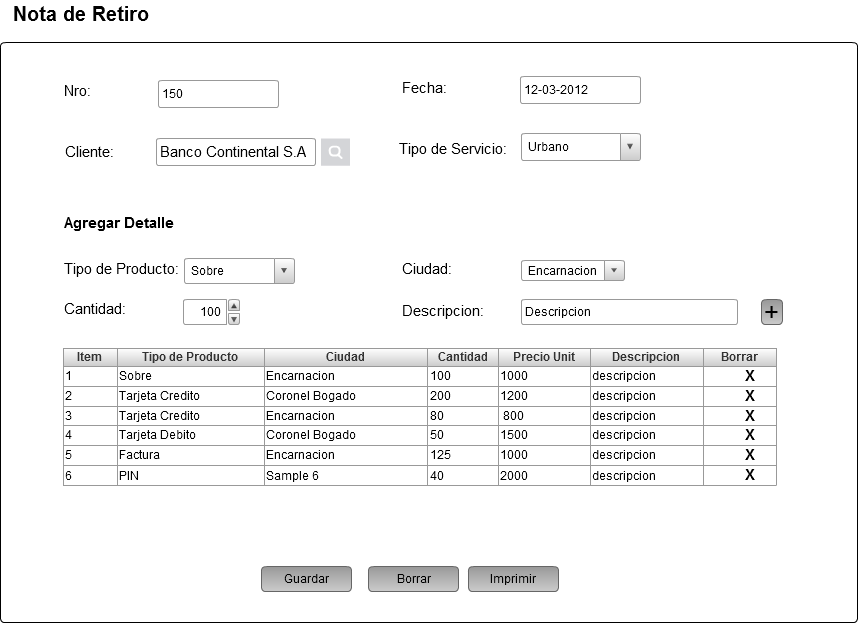
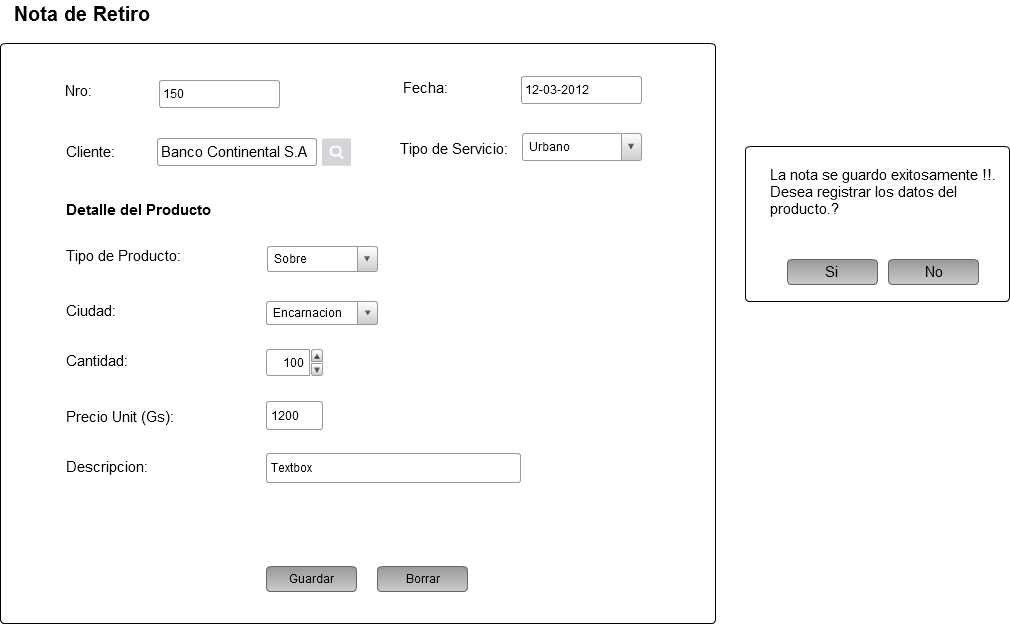
Se modifica la maqueta de nota de retiro Se modifica el redirec_to de customer_companies Se modifica el menu para que aparezca clientes de tipo empresa y luego clientes de tipo persona

diff --git a/project/app/controllers/customer_companies_controller.rb b/project/app/controllers/customer_companies_controller.rb
@@ -50,7 +50,7 @@ class CustomerCompaniesController < ApplicationController
     @customer_company.customer_type_id = 1
     respond_to do |format|
       if @customer_company.save
-        format.html { redirect_to :controller => "customer_companies", notice: 'El cliente ha sido correctamente guardado' }
+        format.html { redirect_to customer_company_path(@customer_company), notice: 'El cliente ha sido correctamente guardado' }
         format.json { render json: @customer_company, status: :created, location: @customer_company }
       else
        format.html { redirect_to customer_company_path(@customer_company), notice: 'No se ha podido guardar el cliente' }
